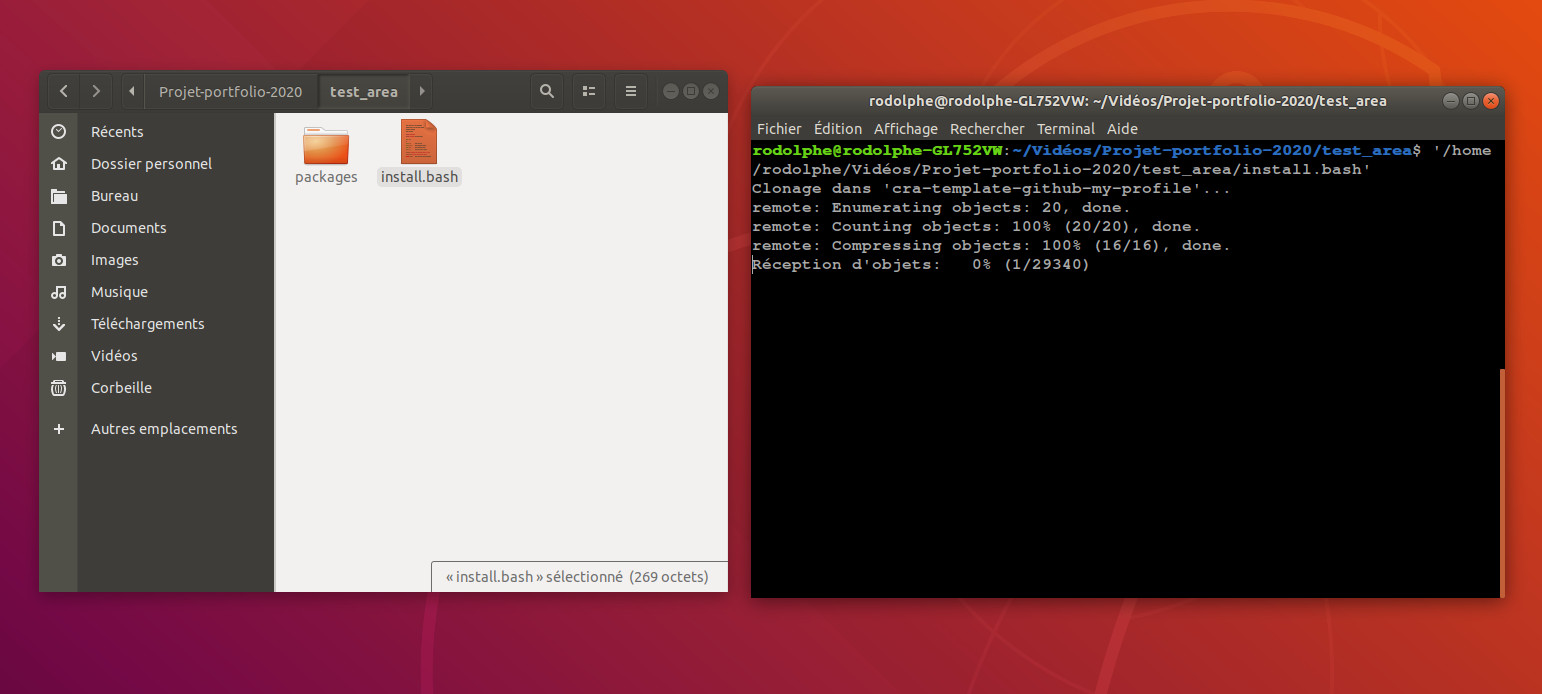
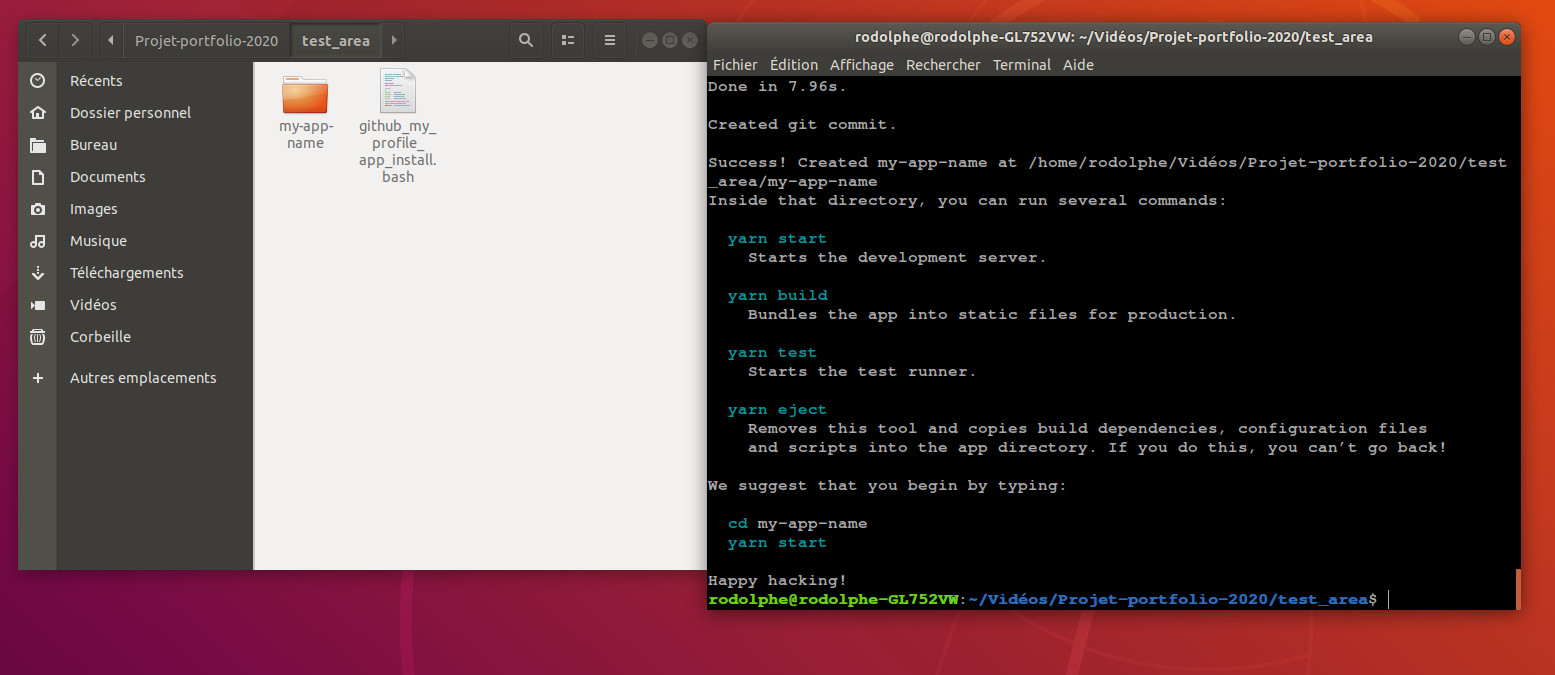
add script installation

Changed region(s): [[0.0, 0.0, 0.9961, 0.9333], [0.6848, 0.4356, 0.7782, 0.4978]]

diff --git a/README.md b/README.md
@@ -20,6 +20,10 @@ then hit the enter key to continue the installation
 
 <a id="raw-url" href="https://github.com/rodolphe37/cra-template-github-my-profile/blob/master/script_install/github_my_profile_app_install.zip?raw=true">Download the zip file here</a>
 
+![!install-step1](demo/install-script1.jpg)
+![!install-step2](demo/install-script2.jpg)
+![!install-step3](demo/install-script3jpg)
+
 ***Solution 2***
 
 Put your app name in this line, at  ``` <YOUR NAME HERE> ``` and that's all!
@@ -30,12 +34,6 @@ Put your app name in this line, at  ``` <YOUR NAME HERE> ``` and that's all!
 mkdir packages && cd packages && git clone https://github.com/rodolphe37/cra-template-github-my-profile.git && cd .. && npx create-react-app <YOUR APP NAME HERE> --template file:./packages/cra-template-github-my-profile && rm -rf packages
 
 ```
-# part 1 movie installation
-![!install1](demo/install1.gif)
-
-# part2 movie installation
-![!install2](demo/install2.gif)
-
 
 after that, go to :
 - "[How to personnalise yours application GithubMyProfile at my cra-template repo](https://github.com/rodolphe37/cra-template-github-my-profile/blob/master/template/README.md#customization-of-the-application)"
